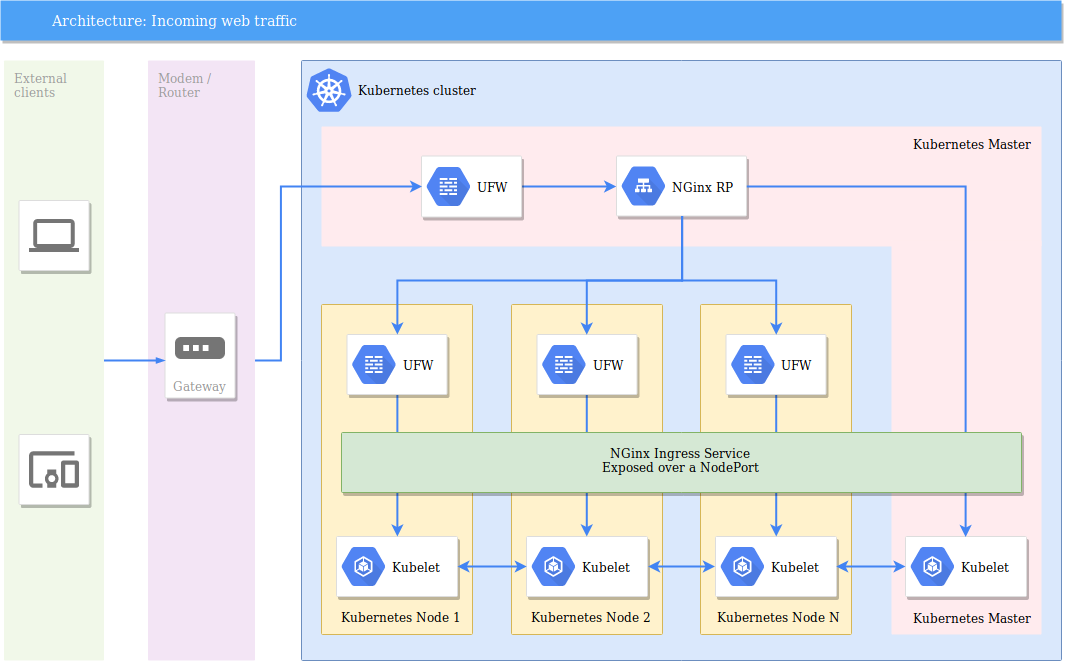
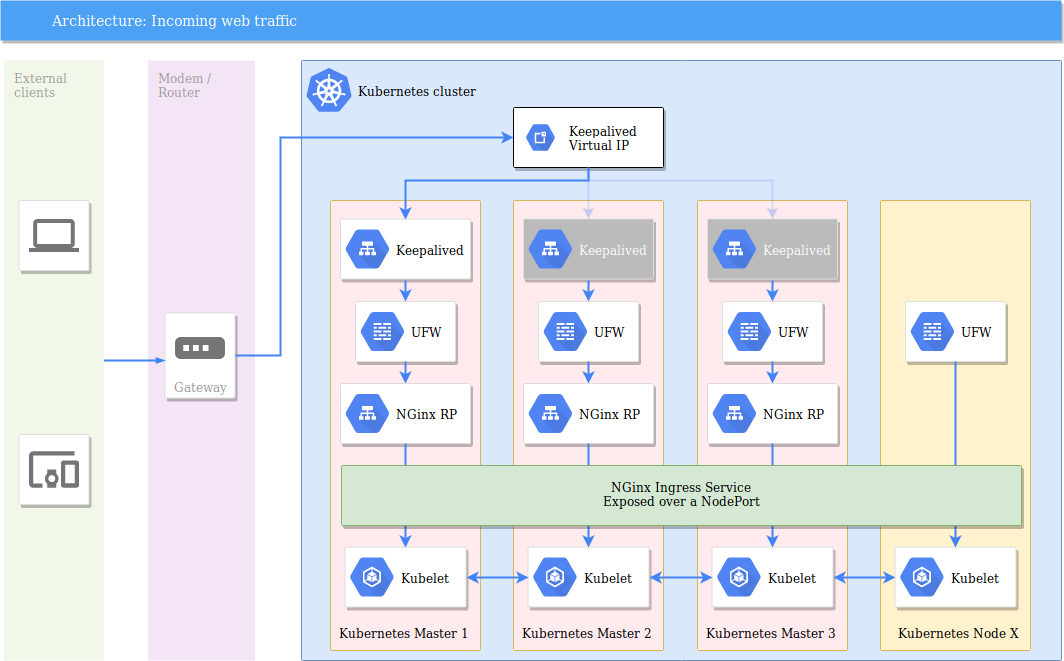
Add docs about HA

diff --git a/docs/High_availability.md b/docs/High_availability.md
@@ -1,0 +1,79 @@
+# High availability
+
+To be clear, the cluster installed by this playbook isn't high available.
+
+## Hardware
+
+On the hardware side of things, at least 2 major points of failure remain : 
+
+* Single internet link
+* Single power delivery (allviated by a UPS)
+
+Also as it's a home setup, it's obviously not replicated accros multiple sites.
+
+## Software stack
+
+On the software stack side however, most of the components are configured to be "high-available ready".
+By that I mean that the cluster I've built isn't sized to be HA, but it's "only" a matter of throwing more CPUs / RAM at it.
+
+![Architecture - High availability](diagrams/Architecture_High_availability.png "Architecture - High availability")
+
+### DNS
+
+dnsmasq is used for local resolution.
+
+It's installed on the 3 master nodes, and all nodes in the cluster are configured to used them.
+
+**dnsmasq tolerates the loss of 2 master nodes**
+
+### Kubernetes
+
+Kubernetes is installed using 3 master nodes, using the [stacked etcd topology](https://kubernetes.io/docs/setup/independent/ha-topology/#stacked-etcd-topology)
+
+The apiserver is accessed though a HAProxy that distributes requests accross the 3 master nodes.
+
+**Kubernetes tolerates the loss of 1 master node**
+
+### Storage
+
+All persistant volumes use GlusterFS.
+
+The GlusterFS volumes are built on 3 nodes with 2 replicas.
+To lower the storage requirements, only 2 nodes hold data, with the 3rd one only being an arbiter.
+
+**GlusterFS tolerates the loss of 1 master node**
+
+### Reverse Proxy
+
+Keepalived is used to be sure we have an HA virtual IP.
+
+On each master node, an NGinx instance is configured to access all the published services.
+
+`master-1` is set as the default `master` node, with `master-2` and `master-3` as `backup`s.
+
+**Reverse proxy tolerates the loss of 2 master nodes**
+
+There are 2 limitations with this setup : 
+
+#### SSL Cert
+
+`master-1` is responsible for SSL cert renewal using certbot. 
+
+If it stays down for a long period, SSL certs will expire.
+
+#### Load balancing
+
+Trafic is not load balanced between the 3 NGinx instances.
+
+It could easily be added. Howver, using a single active NGinx instance allows for a more effective fail2ban filtering.
+If an IP tries to scan or brute force access to the cluster, fail2ban add an iptables rule to deny this IP. Using 3 hosts means that each instance will have its own fail2ban counters and its own iptables rules. It will allow for more tries before denying the IP.
+
+
+## Applications
+
+Finally on the applications side, it's a bit more hit-and-miss. But mostly miss.
+
+Some can easily be scaled up to be HA (docker registry for example).
+
+Others would be more complex to handle (MySQL, OpenLDAP ...).
+

diff --git a/README.md b/README.md
@@ -30,6 +30,12 @@ The underlying hardware is detailed on a [dedicated page](docs/Hardware_detail.m
 | master-3  |  4/8  | [Intel i5-8259U](https://ark.intel.com/content/www/us/en/ark/products/135935/intel-core-i5-8259u-processor-6m-cache-up-to-3-80-ghz.html) |  32G  | SSD 500G  |
 | node-home |  4/4  | [Intel Atom x5 Z8350](https://ark.intel.com/products/93361/Intel-Atom-x5-Z8350-Processor-2M-Cache-up-to-1-92-GHz-)                       |  2G   | Flash 32G |
 
+## High availability
+
+More information on the [dedicated page](docs/High_availability.md).
+
+Spoiler : it's not really HA.
+
 ## Vagrant
 
 The Vagrantfile creates 4 *similar* guests :
